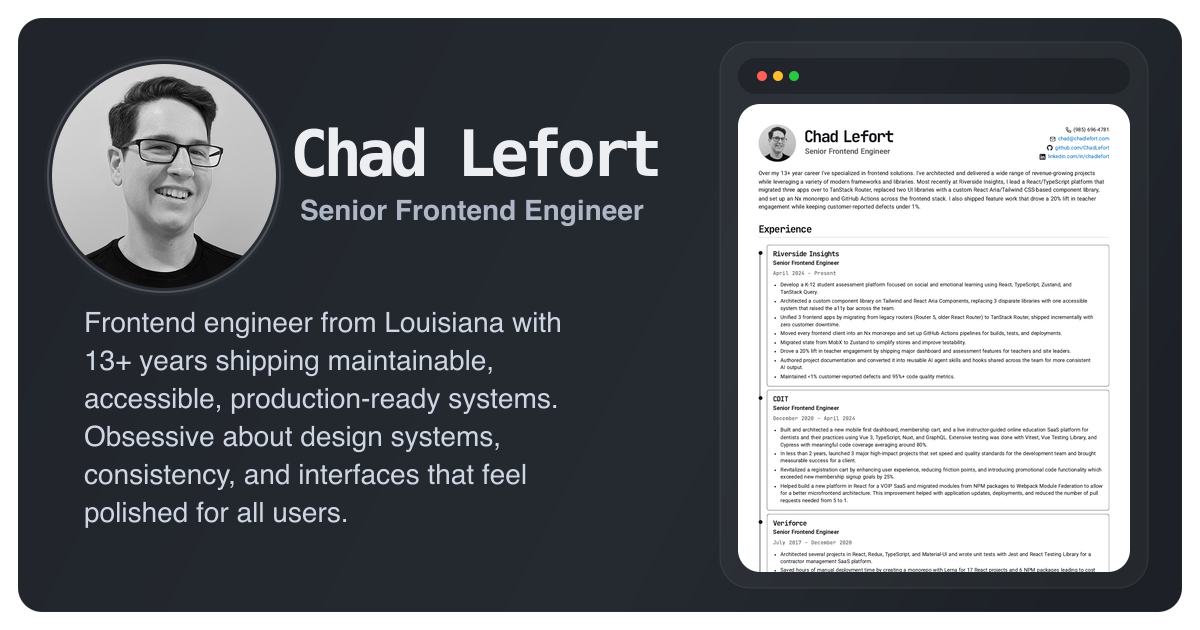
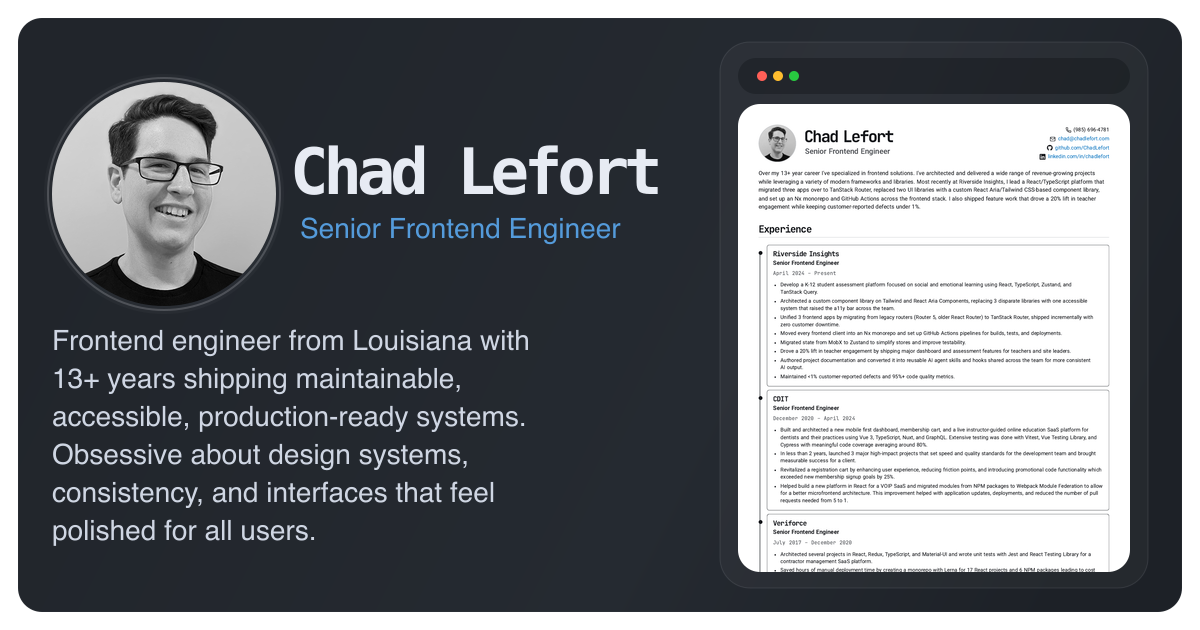
Improve card assets

Changed region(s): [[0.0308, 0.0905, 0.555, 0.8746]]

diff --git a/scripts/generate-brand-assets.ts b/scripts/generate-brand-assets.ts
@@ -207,7 +207,7 @@ try {
   const resumeSlotHeight = 468;
   const extractHeight = Math.min(resumeHeight, Math.round(resumeWidth / (resumeSlotWidth / resumeSlotHeight)));
 
-  const [resumeHero, portraitCircle] = await Promise.all([
+  const [resumeHero, socialPortrait, searchPortrait] = await Promise.all([
     roundedCrop(resumePreview, {
       width: resumeSlotWidth,
       height: resumeSlotHeight,
@@ -219,9 +219,13 @@ try {
         height: extractHeight
       }
     }),
-    circleCrop(portrait, 224)
+    circleCrop(portrait, 224),
+    circleCrop(portrait, 700)
   ]);
-  const backgroundSvg = dedent`<svg xmlns="http://www.w3.org/2000/svg" width="1200" height="630" viewBox="0 0 1200 630">
+  // sRGB equivalents of the dark-mode hero tokens: --color-12 and --terminal-blue.
+  const heroHeadingColor = '#e7ebf3';
+  const heroAccentColor = '#549bdb';
+  const socialCardSvg = dedent`<svg xmlns="http://www.w3.org/2000/svg" width="1200" height="630" viewBox="0 0 1200 630">
     <defs>
       <style>
         @font-face {
@@ -239,17 +243,16 @@ try {
         .name {
           font-family: "JetBrains Mono Variable", monospace;
           font-size: 64px;
-          font-weight: 700;
-          letter-spacing: -0.06em;
-          fill: #eceef2;
+          font-weight: 600;
           letter-spacing: -0.08em;
+          fill: ${heroHeadingColor};
         }
 
         .role {
           font-family: "Roboto Variable", sans-serif;
           font-size: 28px;
-          font-weight: 560;
-          fill: #afb6c5;
+          font-weight: 500;
+          fill: ${heroAccentColor};
         }
 
         .summary {
@@ -278,8 +281,8 @@ try {
     </defs>
     <g clip-path="url(#cardClip)">
       <rect x="18" y="18" width="1164" height="594" rx="24" fill="url(#bg)" />
-      <circle cx="164" cy="176" r="120" fill="rgba(236,238,242,0.03)" />
-      <circle cx="164" cy="176" r="116" fill="none" stroke="rgba(236,238,242,0.2)" stroke-width="2" />
+      <circle cx="164" cy="194" r="120" fill="rgba(236,238,242,0.03)" />
+      <circle cx="164" cy="194" r="116" fill="none" stroke="rgba(236,238,242,0.2)" stroke-width="2" />
 
       <rect x="720" y="42" width="428" height="546" rx="30" fill="rgba(236,238,242,0.04)" stroke="rgba(236,238,242,0.1)" />
       <rect x="738" y="58" width="392" height="36" rx="18" fill="rgba(10,13,18,0.32)" />
@@ -288,30 +291,90 @@ try {
       <circle cx="794" cy="76" r="5" fill="#28c840" />
       <rect x="738" y="104" width="392" height="468" rx="22" fill="rgba(8,10,14,0.22)" />
 
-      <text x="290" y="176" class="name">Chad Lefort</text>
-      <text x="300" y="220" class="role">Senior Frontend Engineer</text>
+      <text x="290" y="194" class="name">Chad Lefort</text>
+      <text x="300" y="238" class="role">Senior Frontend Engineer</text>
 
-      <text x="84" y="332" class="summary">
-        <tspan x="84" dy="0">Frontend engineer from Louisiana with</tspan>
-        <tspan x="84" dy="38">${years}+ years shipping maintainable,</tspan>
-        <tspan x="84" dy="38">accessible, production-ready systems.</tspan>
-        <tspan x="84" dy="38">Obsessive about design systems,</tspan>
-        <tspan x="84" dy="38">consistency, and interfaces that feel</tspan>
-        <tspan x="84" dy="38">polished for all users.</tspan>
+      <text x="52" y="350" class="summary">
+        <tspan x="52" dy="0">Frontend engineer from Louisiana with</tspan>
+        <tspan x="52" dy="38">${years}+ years shipping maintainable,</tspan>
+        <tspan x="52" dy="38">accessible, production-ready systems.</tspan>
+        <tspan x="52" dy="38">Obsessive about design systems,</tspan>
+        <tspan x="52" dy="38">consistency, and interfaces that feel</tspan>
+        <tspan x="52" dy="38">polished for all users.</tspan>
       </text>
     </g>
     <rect x="18" y="18" width="1164" height="594" rx="24" fill="none" stroke="#eceef2" stroke-opacity="0.06" />
   </svg>`;
 
-  const baseCard = sharp(Buffer.from(backgroundSvg));
+  const searchCardSvg = dedent`<svg xmlns="http://www.w3.org/2000/svg" width="1200" height="1200" viewBox="0 0 1200 1200">
+    <defs>
+      <style>
+        @font-face {
+          font-family: "JetBrains Mono Variable";
+          src: url("${displayFontDataUrl}") format("woff2");
+          font-weight: 100 900;
+        }
 
-  await baseCard
-    .composite([
-      { input: portraitCircle, left: 52, top: 64 },
-      { input: resumeHero, left: 738, top: 104 }
-    ])
-    .png()
-    .toFile(path.join(publicDir, 'card.png'));
+        @font-face {
+          font-family: "Roboto Variable";
+          src: url("${sansFontDataUrl}") format("woff2");
+          font-weight: 100 900;
+        }
+
+        .name {
+          font-family: "JetBrains Mono Variable", monospace;
+          font-size: 108px;
+          font-weight: 600;
+          letter-spacing: -0.08em;
+          fill: ${heroHeadingColor};
+        }
+
+        .role {
+          font-family: "Roboto Variable", sans-serif;
+          font-size: 52px;
+          font-weight: 500;
+          fill: ${heroAccentColor};
+        }
+
+      </style>
+      <linearGradient id="bg" x1="100" y1="60" x2="1100" y2="1140" gradientUnits="userSpaceOnUse">
+        <stop offset="0" stop-color="#252a31" />
+        <stop offset="0.55" stop-color="#21252b" />
+        <stop offset="1" stop-color="#1d2127" />
+      </linearGradient>
+      <radialGradient id="glow" cx="0" cy="0" r="1" gradientTransform="translate(600 460) rotate(90) scale(500)">
+        <stop offset="0" stop-color="#eceef2" stop-opacity="0.1" />
+        <stop offset="1" stop-color="#eceef2" stop-opacity="0" />
+      </radialGradient>
+      <clipPath id="cardClip">
+        <rect x="18" y="18" width="1164" height="1164" rx="48" />
+      </clipPath>
+    </defs>
+    <g clip-path="url(#cardClip)">
+      <rect x="18" y="18" width="1164" height="1164" rx="48" fill="url(#bg)" />
+      <circle cx="600" cy="460" r="500" fill="url(#glow)" />
+      <circle cx="600" cy="460" r="356" fill="rgba(236,238,242,0.03)" />
+      <circle cx="600" cy="460" r="354" fill="none" stroke="rgba(236,238,242,0.24)" stroke-width="3" />
+
+      <text x="600" y="980" text-anchor="middle" class="name">Chad Lefort</text>
+      <text x="600" y="1064" text-anchor="middle" class="role">Senior Frontend Engineer</text>
+    </g>
+    <rect x="18" y="18" width="1164" height="1164" rx="48" fill="none" stroke="#eceef2" stroke-opacity="0.08" />
+  </svg>`;
+
+  await Promise.all([
+    sharp(Buffer.from(socialCardSvg))
+      .composite([
+        { input: socialPortrait, left: 52, top: 82 },
+        { input: resumeHero, left: 738, top: 104 }
+      ])
+      .png()
+      .toFile(path.join(publicDir, 'card.png')),
+    sharp(Buffer.from(searchCardSvg))
+      .composite([{ input: searchPortrait, left: 250, top: 110 }])
+      .png()
+      .toFile(path.join(publicDir, 'search-card.png'))
+  ]);
 } finally {
   await rm(tempDir, { recursive: true, force: true });
 }

diff --git a/e2e/smoke.spec.ts b/e2e/smoke.spec.ts
@@ -7,6 +7,24 @@ test.describe('home page', () => {
     await expect(page.getByRole('heading', { name: 'Chad Lefort', level: 1 })).toBeVisible();
   });
 
+  test('publishes separate social and search images', async ({ page }) => {
+    await page.goto('/');
+
+    await expect(page.locator('meta[property="og:image"]')).toHaveAttribute(
+      'content',
+      'https://chadlefort.com/card.png'
+    );
+    await expect(page.locator('meta[name="robots"]')).toHaveAttribute('content', /max-image-preview:large/);
+
+    const ld = await page.locator('script[type="application/ld+json"]').first().textContent();
+
+    expect(ld).toBeTruthy();
+    if (!ld) throw new Error('Expected profile structured data');
+    const graph = JSON.parse(ld);
+    const profile = graph.find((node: { '@type': string }) => node['@type'] === 'ProfilePage');
+    expect(profile?.primaryImageOfPage?.contentUrl).toBe('https://chadlefort.com/search-card.png');
+  });
+
   test('download resume link points to pdf', async ({ page }) => {
     await page.goto('/');
 

diff --git a/scripts/precommit-assets-brand.ts b/scripts/precommit-assets-brand.ts
@@ -26,4 +26,6 @@ if (!stagedFiles.some((file) => resumeSourceFiles.has(file))) {
 }
 
 await $`bun run assets:brand`.cwd(rootDir);
-await $`git add public/chad-lefort-resume.pdf public/chad-lefort-resume.md public/card.png`.cwd(rootDir);
+await $`git add public/chad-lefort-resume.pdf public/chad-lefort-resume.md public/card.png public/search-card.png`.cwd(
+  rootDir
+);

diff --git a/src/data/site.ts b/src/data/site.ts
@@ -19,6 +19,7 @@ export const site = {
   lang: 'en-US',
   email: 'chad@chadlefort.com',
   ogImage: '/card.png',
+  searchImage: '/search-card.png',
   avatar: '/me.png',
   location,
   social: {

diff --git a/src/styles/base.css b/src/styles/base.css
@@ -1,6 +1,7 @@
 html {
   background: var(--surface);
   color: var(--text);
+  overscroll-behavior-y: none;
   scroll-behavior: smooth;
 }
 
